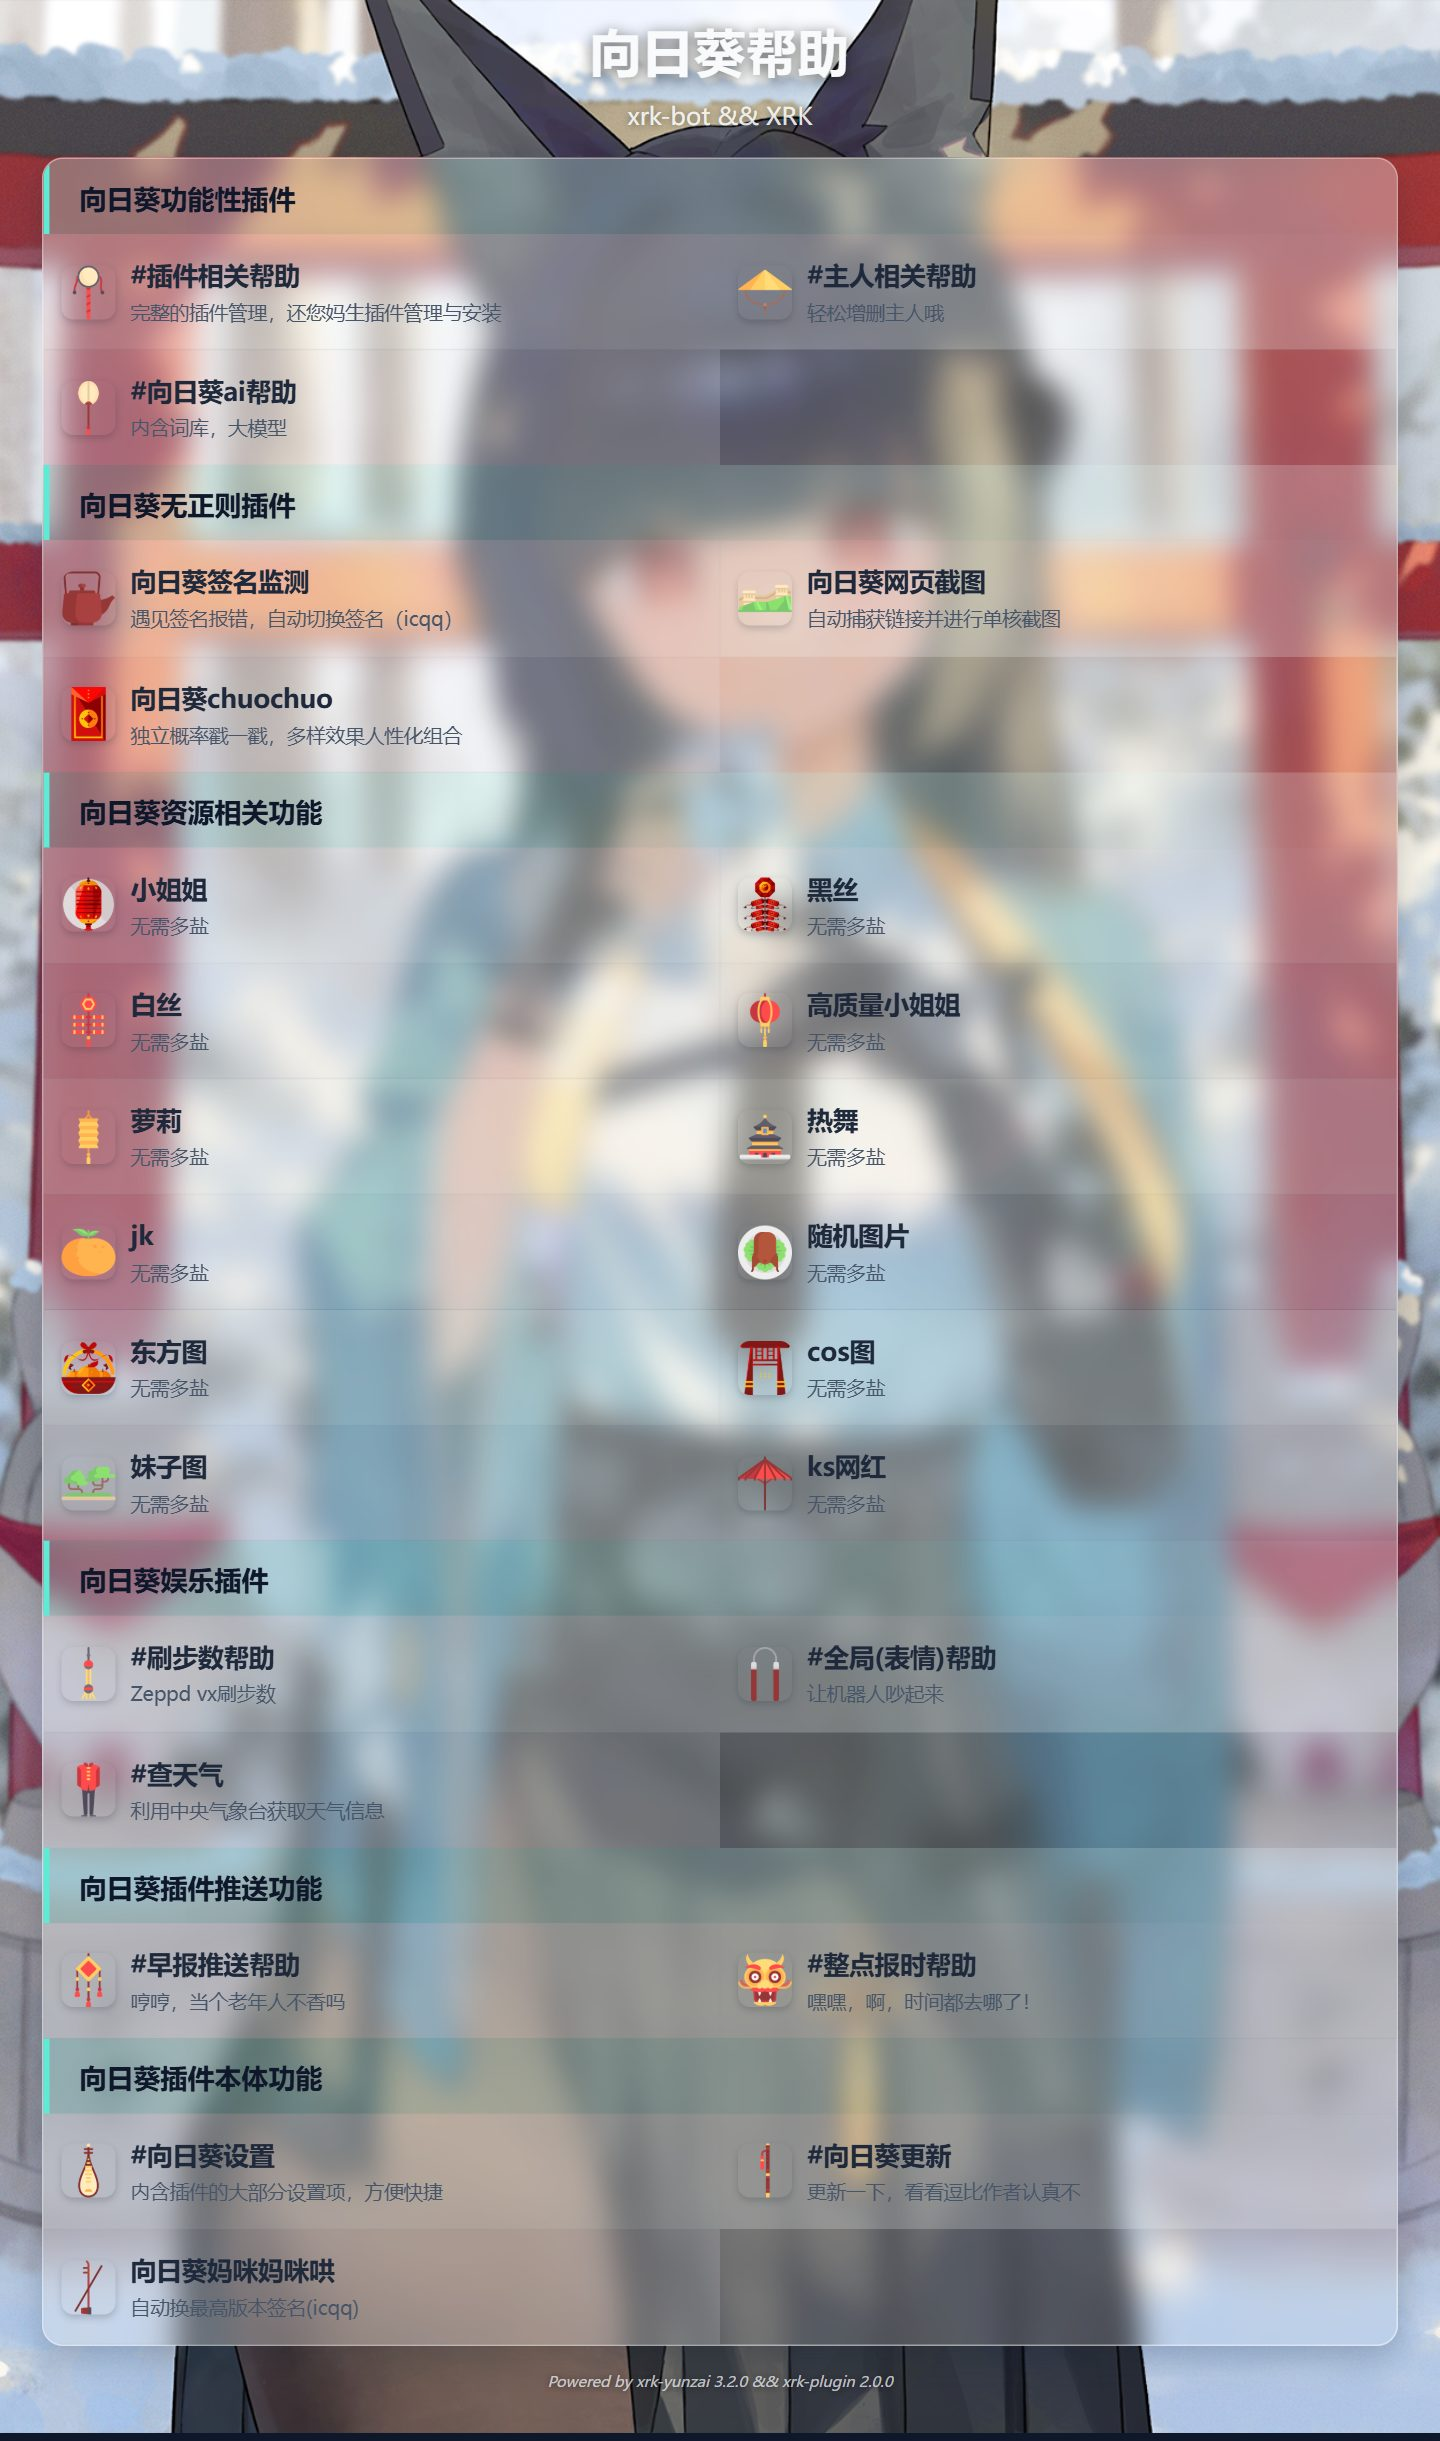
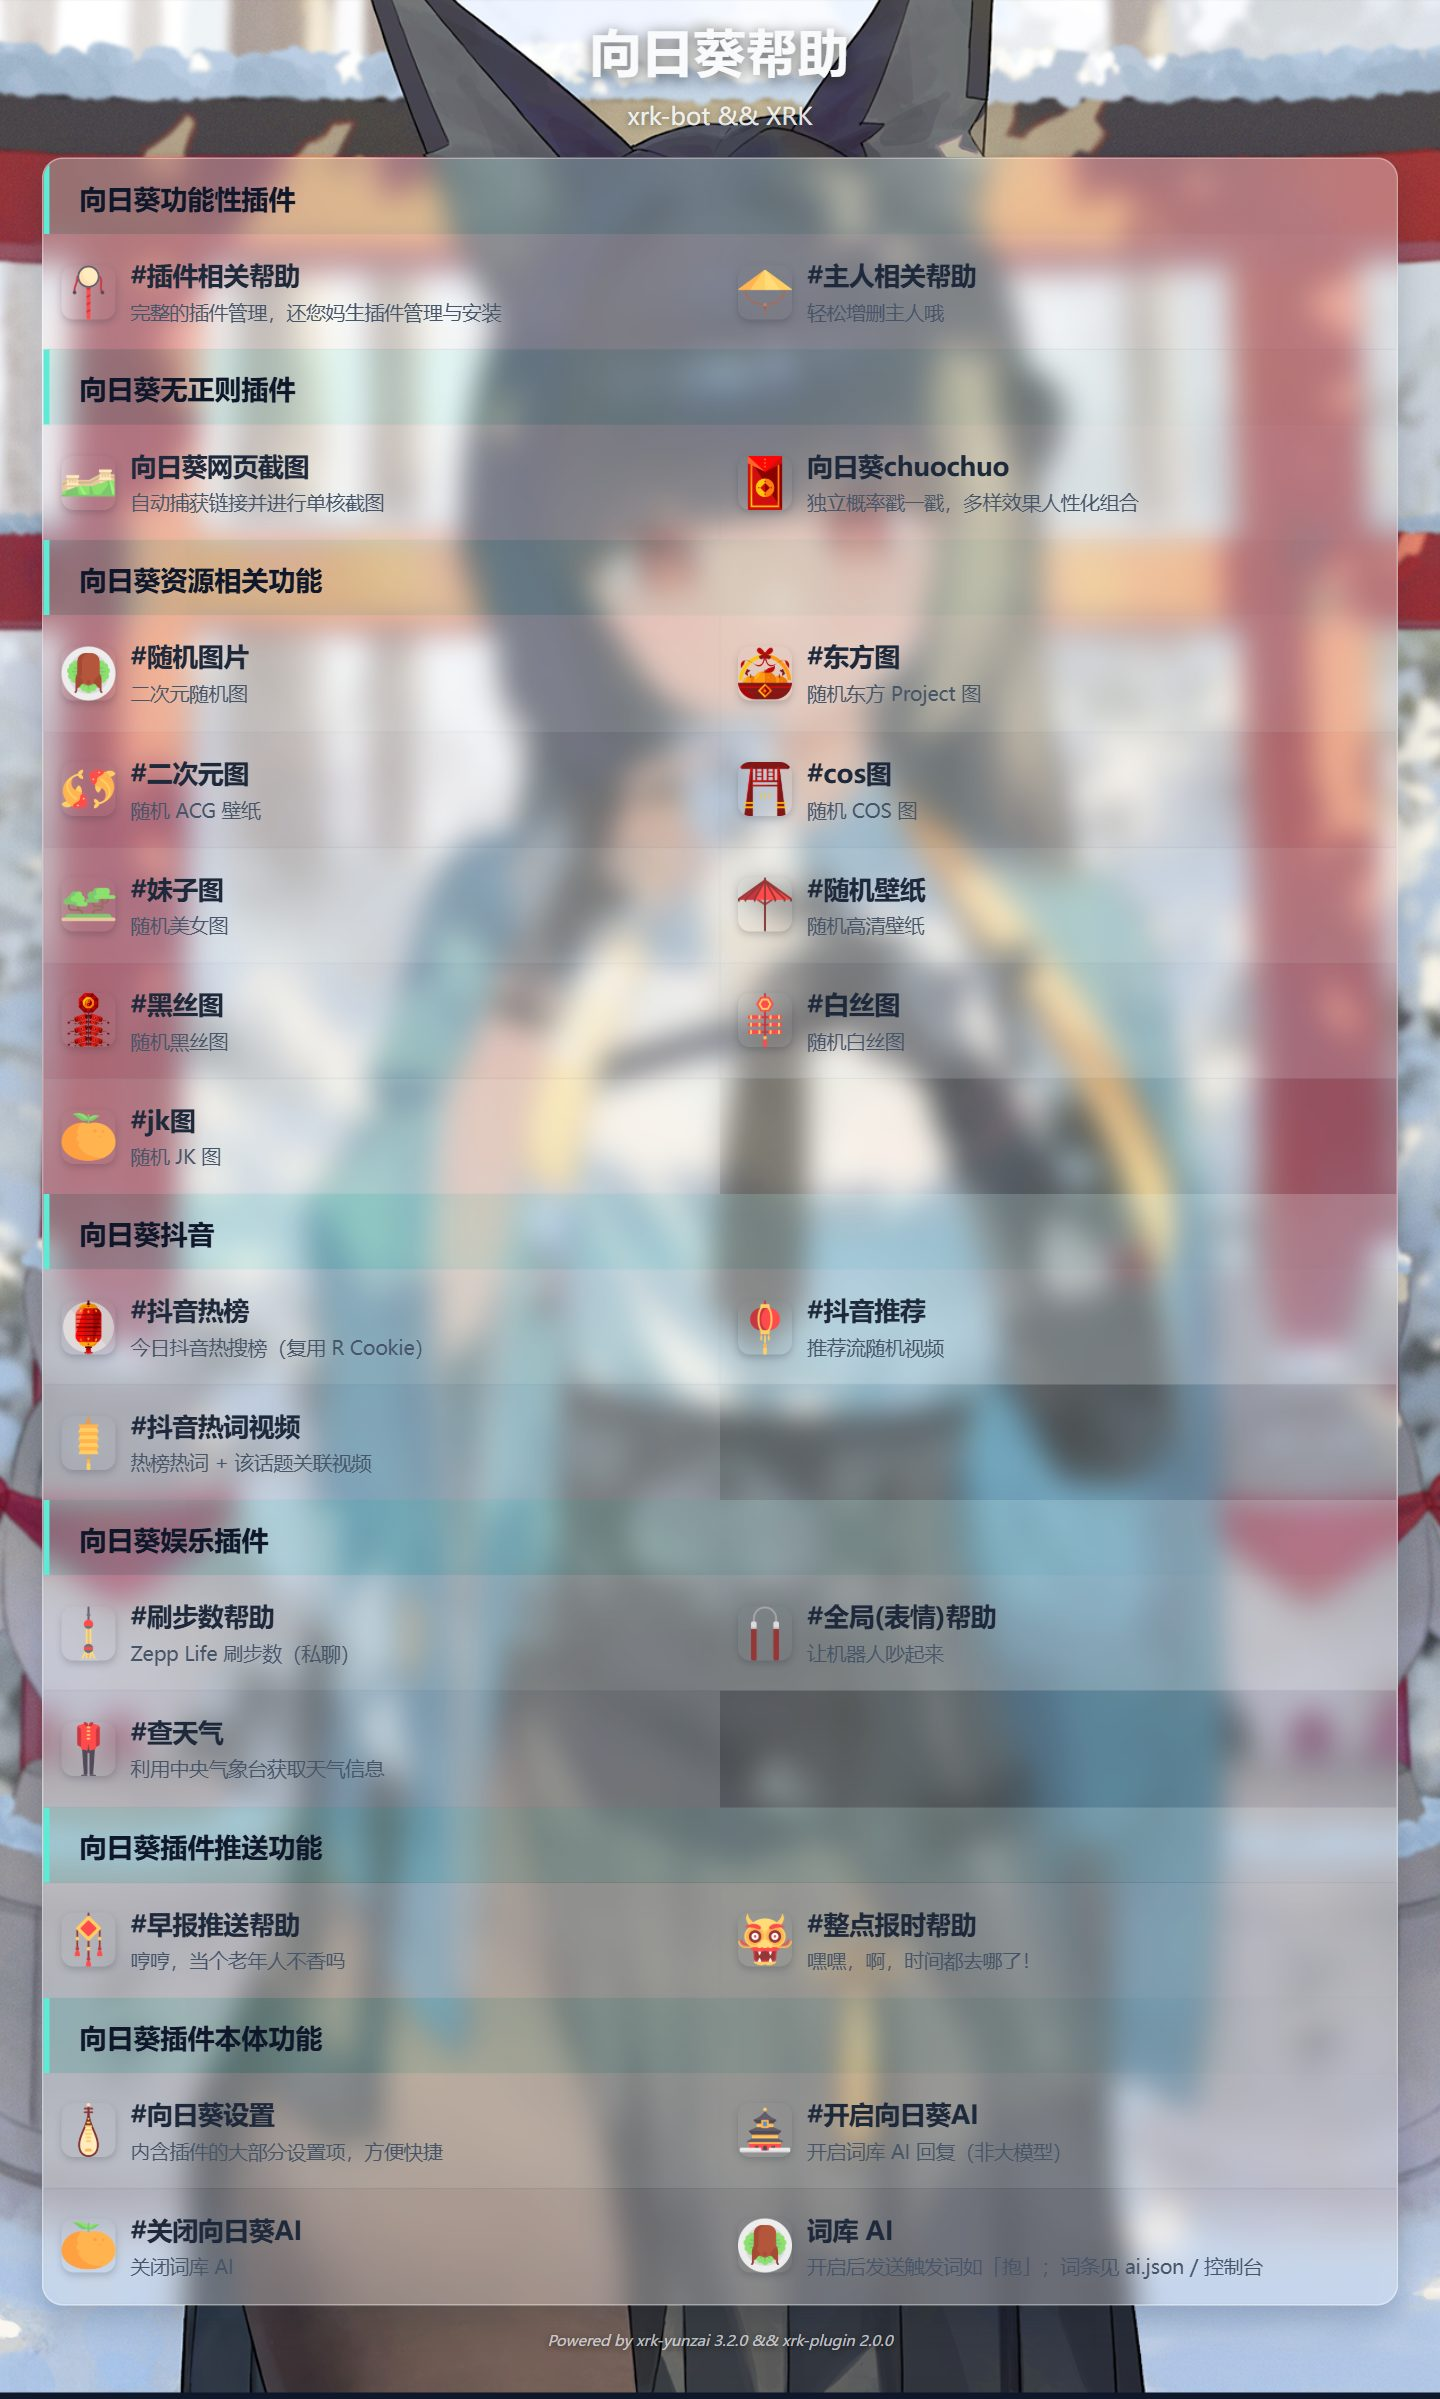
Update: 2026/07/28 15:15:56 [4 修改] +267 -8 行

diff --git a/apps/刷步数.js b/apps/刷步数.js
@@ -1,1 +1,266 @@
[1 lines of base64/hex data omitted]
+/**
+ * Zepp Life / 小米运动刷步数（私聊）
+ * 主接口：steps.api.030101.xyz（原 api.mmp.cc 已停服）
+ */
+import crypto from 'crypto'
+import path from 'path'
+import plugin from '../../../lib/plugins/plugin.js'
+import { FileUtils } from '../../../lib/utils/file-utils.js'
+
+const ROOT_PATH = process.cwd()
+const HIDDEN_DATA_DIR = path.join(ROOT_PATH, 'data', 'xrkconfig', '.xrk')
+const ALGORITHM = 'aes-256-cbc'
+const SECRET_KEY = '0123456789abcdef0123456789abcdef'
+const IV = '0123456789abcdef'
+
+/** 按优先级尝试；返回体字段不统一，统一归一化 */
+const STEP_APIS = [
+  {
+    name: 'steps.api.030101.xyz',
+    buildUrl: (user, pass, step) =>
+      `https://steps.api.030101.xyz/api?account=${encodeURIComponent(user)}&password=${encodeURIComponent(pass)}&steps=${encodeURIComponent(step)}`,
+    parse: (data, user, step) => {
+      if (data?.status === 'success') {
+        const m = String(data.message || '').match(/(\d+)/)
+        return { ok: true, user, count: m ? Number(m[1]) : step }
+      }
+      return { ok: false, message: data?.message || data?.msg || '提交失败' }
+    }
+  },
+  {
+    name: 'api.mmp.cc',
+    buildUrl: (user, pass, step) =>
+      `https://api.mmp.cc/api/ZeppLife?user=${encodeURIComponent(user)}&pass=${encodeURIComponent(pass)}&count=${encodeURIComponent(step)}`,
+    parse: (data, user, step) => {
+      if (data?.code === 200) return { ok: true, user: data.user || user, count: data.count || step }
+      return { ok: false, message: data?.msg || data?.message || data?.tip || '提交失败' }
+    }
+  }
+]
+
+function encrypt(text) {
+  const cipher = crypto.createCipheriv(ALGORITHM, SECRET_KEY, IV)
+  return cipher.update(text, 'utf8', 'hex') + cipher.final('hex')
+}
+
+function decrypt(hex) {
+  const decipher = crypto.createDecipheriv(ALGORITHM, SECRET_KEY, IV)
+  return decipher.update(hex, 'hex', 'utf8') + decipher.final('utf8')
+}
+
+function writeEncryptedJson(filePath, obj) {
+  FileUtils.writeFileSync(filePath, encrypt(JSON.stringify(obj, null, 2)))
+}
+
+function readEncryptedJson(filePath) {
+  if (!FileUtils.existsSync(filePath)) return null
+  try {
+    return JSON.parse(decrypt(FileUtils.readFileSync(filePath, 'utf8')))
+  } catch (err) {
+    logger.error(`[刷步数] 读取凭证失败: ${err.message}`)
+    return null
+  }
+}
+
+async function submitSteps(username, password, step) {
+  let lastMessage = '步数提交失败，请稍后重试'
+  for (const api of STEP_APIS) {
+    try {
+      const res = await fetch(api.buildUrl(username, password, step), {
+        signal: AbortSignal.timeout(30000),
+        headers: { 'User-Agent': 'XRK-plugin/刷步数' }
+      })
+      const text = await res.text()
+      let data
+      try {
+        data = JSON.parse(text)
+      } catch {
+        lastMessage = `${api.name} 返回非 JSON`
+        continue
+      }
+      // 远梦站点整站停服提示
+      if (data?.msg?.includes?.('已停止') || data?.tip) {
+        lastMessage = data.tip || data.msg
+        continue
+      }
+      const parsed = api.parse(data, username, step)
+      if (parsed.ok) return { success: true, user: parsed.user, count: parsed.count }
+      lastMessage = parsed.message
+      // 账号/密码类错误不必再试下一个接口
+      if (/密码|账号|格式|废物|登录|认证/i.test(String(lastMessage))) {
+        return { success: false, message: lastMessage }
+      }
+    } catch (err) {
+      lastMessage = `${api.name}: ${err.message}`
+      logger.error(`[刷步数] ${api.name} 调用失败: ${err.message}`)
+    }
+  }
+  return { success: false, message: lastMessage }
+}
+
+export class StepCounter extends plugin {
+  constructor() {
+    super({
+      name: '刷步数',
+      dsc: 'Zepp Life 刷步数',
+      event: 'message',
+      priority: 5000,
+      rule: [
+        { reg: /^#刷步数.+[：:].+[：:].+$/, fnc: 'submitSteps' },
+        { reg: /^#绑定步数.+[：:].+$/, fnc: 'bindAccount' },
+        { reg: /^#刷步数\d+$/, fnc: 'submitBound' }
+      ]
+    })
+    FileUtils.ensureDirSync(HIDDEN_DATA_DIR)
+  }
+
+  getUserDataPath(userId) {
+    return path.join(HIDDEN_DATA_DIR, `${userId}.json`)
+  }
+
+  getCredentialsPath() {
+    return path.join(HIDDEN_DATA_DIR, 'credentials.json')
+  }
+
+  getUserData(userId) {
+    return readEncryptedJson(this.getUserDataPath(userId))
+  }
+
+  saveUserData(userId, data) {
+    writeEncryptedJson(this.getUserDataPath(userId), data)
+  }
+
+  getAllCredentials() {
+    return readEncryptedJson(this.getCredentialsPath()) || []
+  }
+
+  saveAllCredentials(list) {
+    writeEncryptedJson(this.getCredentialsPath(), list)
+  }
+
+  isCredentialsUsed(username, password) {
+    return this.getAllCredentials().some(
+      (c) => c.username === username && c.password === password
+    )
+  }
+
+  markCredentialsUsed(username, password) {
+    const list = this.getAllCredentials()
+    list.push({ username, password })
+    this.saveAllCredentials(list)
+  }
+
+  isNewDay(lastUsed) {
+    if (!lastUsed) return true
+    const now = new Date()
+    const prev = new Date(lastUsed)
+    return (
+      now.getFullYear() !== prev.getFullYear() ||
+      now.getMonth() !== prev.getMonth() ||
+      now.getDate() !== prev.getDate()
+    )
+  }
+
+  ensurePrivate(e) {
+    if (e.isPrivate) return true
+    e.reply('该功能仅支持私聊使用')
+    return false
+  }
+
+  async bindAccount(e) {
+    if (!this.ensurePrivate(e)) return
+    const raw = e.msg.replace('#绑定步数', '').trim()
+    const [username, password] = raw.split(/[：:]/)
+    if (!username || !password) {
+      await this.reply('格式错误，请使用：#绑定步数账号：密码')
+      return
+    }
+    if (this.isCredentialsUsed(username, password)) {
+      await this.reply('该账号密码已被使用过，无法重复使用')
+      return
+    }
+    let data = this.getUserData(e.user_id)
+    if (data && !this.isNewDay(data.lastUsed)) {
+      await this.reply('您今天已经使用过该功能，无法通过重复绑定来获取额外次数')
+      return
+    }
+    if (data) {
+      data.username = username
+      data.password = password
+    } else {
+      data = { username, password, lastUsed: null }
+    }
+    this.saveUserData(e.user_id, data)
+    await this.reply('账号绑定成功！您可以直接使用：#刷步数10000 来刷步数')
+  }
+
+  async submitBound(e) {
+    if (!this.ensurePrivate(e)) return
+    const data = this.getUserData(e.user_id)
+    if (!data) {
+      await this.reply('您还没有绑定账号，请先使用：#绑定步数账号：密码')
+      return
+    }
+    if (!this.isNewDay(data.lastUsed)) {
+      await this.reply('您今天已经使用过该功能，无法通过重复绑定来获取额外次数')
+      return
+    }
+    const step = parseInt(e.msg.replace('#刷步数', ''), 10)
+    if (isNaN(step) || step <= 0 || step > 98800) {
+      await this.reply('步数必须在1-98800之间')
+      return
+    }
+    if (this.isCredentialsUsed(data.username, data.password)) {
+      await this.reply('该账号密码已被使用过，无法重复使用')
+      return
+    }
+    const result = await submitSteps(data.username, data.password, step)
+    if (result.success) {
+      this.markCredentialsUsed(data.username, data.password)
+      data.lastUsed = new Date().toISOString()
+      this.saveUserData(e.user_id, data)
+      await this.reply(`步数提交成功\n用户：${result.user}\n步数：${result.count}`)
+    } else {
+      await this.reply(`步数提交失败：${result.message}`)
+    }
+  }
+
+  async submitSteps(e) {
+    if (!this.ensurePrivate(e)) return
+    const raw = e.msg.replace('#刷步数', '').trim()
+    const [username, password, stepStr] = raw.split(/[：:]/)
+    const step = parseInt(stepStr, 10)
+    if (isNaN(step) || step <= 0 || step > 98800) {
+      await this.reply('步数必须在1-98800之间')
+      return
+    }
+    if (this.isCredentialsUsed(username, password)) {
+      await this.reply('该账号密码已被使用过，无法重复使用')
+      return
+    }
+    const existing = this.getUserData(e.user_id)
+    if (existing && !this.isNewDay(existing.lastUsed)) {
+      await this.reply('您今天已经使用过该功能，无法通过重复绑定来获取额外次数')
+      return
+    }
+    const result = await submitSteps(username, password, step)
+    if (result.success) {
+      await this.reply(`步数提交成功\n用户：${result.user}\n步数：${result.count}`)
+      this.markCredentialsUsed(username, password)
+      if (!existing) {
+        this.saveUserData(e.user_id, {
+          username,
+          password,
+          lastUsed: new Date().toISOString()
+        })
+      } else {
+        existing.lastUsed = new Date().toISOString()
+        existing.username = username
+        existing.password = password
+        this.saveUserData(e.user_id, existing)
+      }
+    } else {
+      await this.reply(`步数提交失败：${result.message}`)
+    }
+  }
+}
